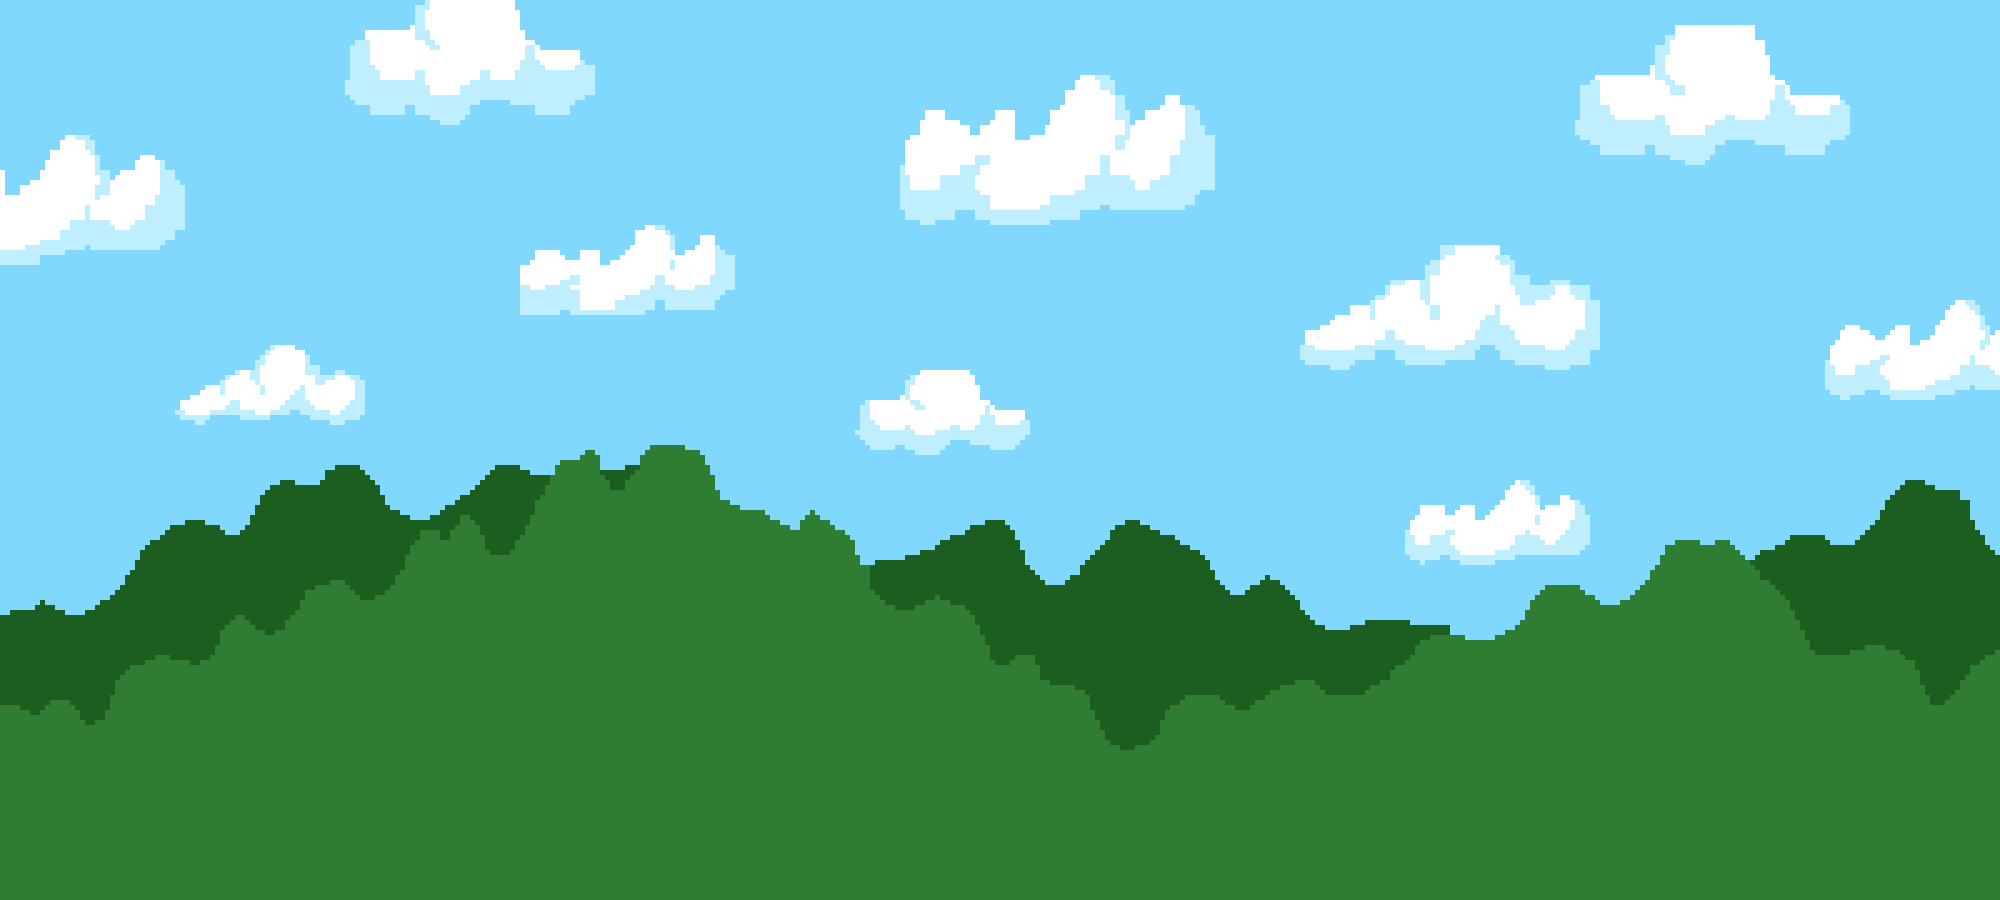
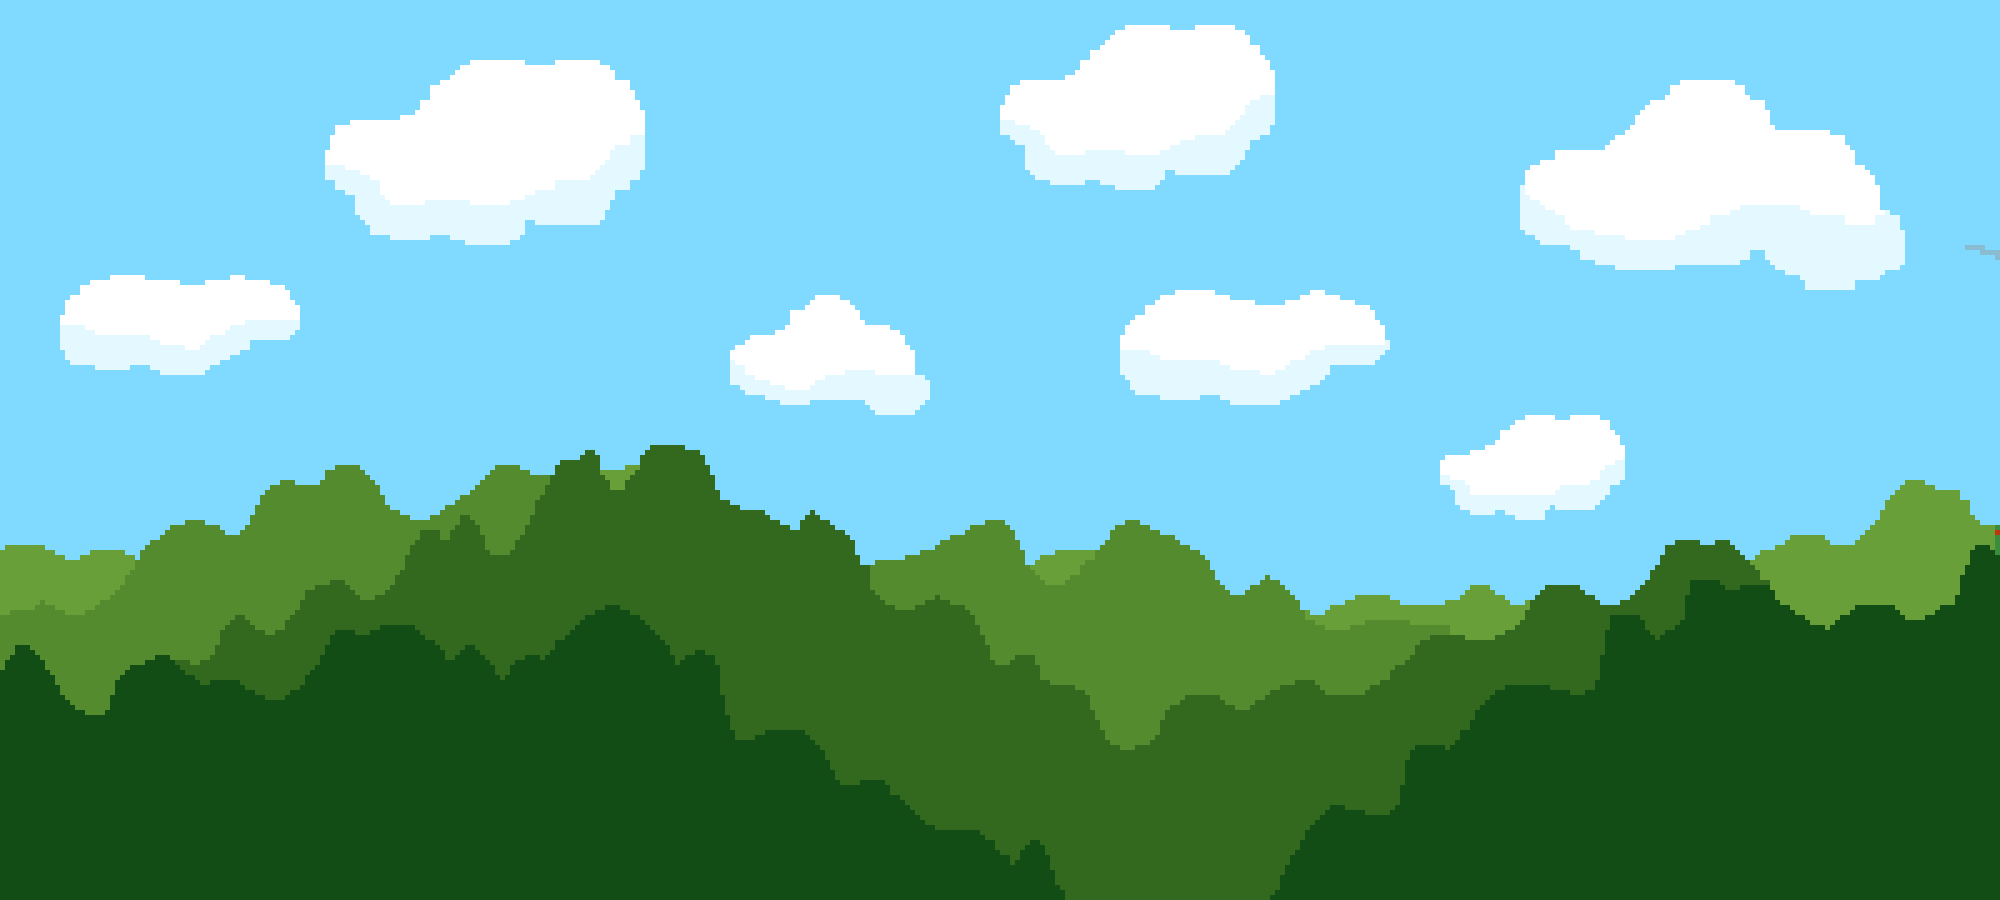
10/19 art added

diff --git a/anger_birbs.py b/anger_birbs.py
@@ -5,7 +5,6 @@ from lvl_makers import *
 
 TRANS = 0, 0
 
-game = True
 running = True
 art = True
 
@@ -52,9 +51,17 @@ def draw_sling(color, slingshot, translation):
 in_sling = None
 time_shot = -1000
 clicked = False
+
 pan_to = False
 pan_back = False
 pan_stop = 0
+
+game = True
+
+m_main = False
+main_buttons = [Button(SKY,WHITE,"start",40,(620,650,200,75))]
+
+background = back_fall_art
 
 slingshot = Slingshot(slingshot_art, (1.5, 1.4))
 ground = Thing(ground_art, (10, 0), 0, BOX, static=True)
@@ -204,8 +211,8 @@ while running:
 
 
         if art:
-            screen.fill((128, 216, 255))
-            screen.blit(background_art, (-1 * TRANS[0] * PPM, TRANS[1] * PPM))
+            screen.fill(SKY)
+            screen.blit(background, (-1 * TRANS[0] * PPM, TRANS[1] * PPM))
             ground.draw(TRANS)
             slingshot.draw(TRANS)
             draw_sling(SLING_COLOR, slingshot, TRANS)
@@ -222,10 +229,10 @@ while running:
                 elif not item.dead:
                     item.draw(TRANS)
             show_text(str(hogs_down) +
-                      "/" + str(level.num_hogs), 720, 100, (255, 255, 102), 40)
+                      "/" + str(level.num_hogs), 720, 100, YELLOW, 40)
 
         elif not art:
-            screen.fill((0, 0, 0))
+            screen.fill(BLACK)
             ground.draw_shape(TRANS)
             for log in level.logs:
                 if not log.dead:
@@ -236,6 +243,16 @@ while running:
                 if not hog.dead:
                     hog.draw_shape(TRANS)
             draw_sling(WHITE, slingshot, TRANS)
+
+    elif m_main:
+        for event in pygame.event.get():
+            if event.type == pygame.KEYDOWN and event.key == pygame.K_ESCAPE:
+                running = False
+
+        screen.blit(background, (0,0))
+        show_text("anger birbs!", 720, 225, YELLOW, 100)
+        for each in main_buttons:
+            each.draw()
 
     pygame.display.flip()
     clock.tick(FPS)

diff --git a/anger_common.py b/anger_common.py
@@ -10,6 +10,10 @@ BOX = 1
 WHITE = (255,255,255)
 BLACK = (0,0,0)
 MAROON = (128,0,0)
+YELLOW = (255, 255, 102)
+BLUE = (165,242,243)
+RED = (255,0,0)
+SKY = (128, 216, 255)
 
 PPM = 100
 VIEW = 1440,900
@@ -56,6 +60,7 @@ hedgehog_art = pygame.transform.flip(hedgehog_art, True, False)
 ground_art = pygame.image.load("anger_art/ground.png").convert_alpha()
 slingshot_art = pygame.image.load("anger_art/slingshot.png").convert_alpha()
 background_art = pygame.image.load("anger_art/background.png").convert_alpha()
+back_fall_art = pygame.image.load("anger_art/back_fall.png").convert_alpha()
 
 puff1, puff2, puff3 = (pygame.image.load("anger_art/puff1.png").convert_alpha(),
         pygame.image.load("anger_art/puff2.png").convert_alpha(),

diff --git a/lvl_build.py b/lvl_build.py
@@ -5,8 +5,7 @@ from anger_sprites import *
 running = True
 TRANS = 0, 0
 ice = False
-BLUE = (165,242,243)
-RED = (255,0,0)
+
 
 
 def get_world_pos():
